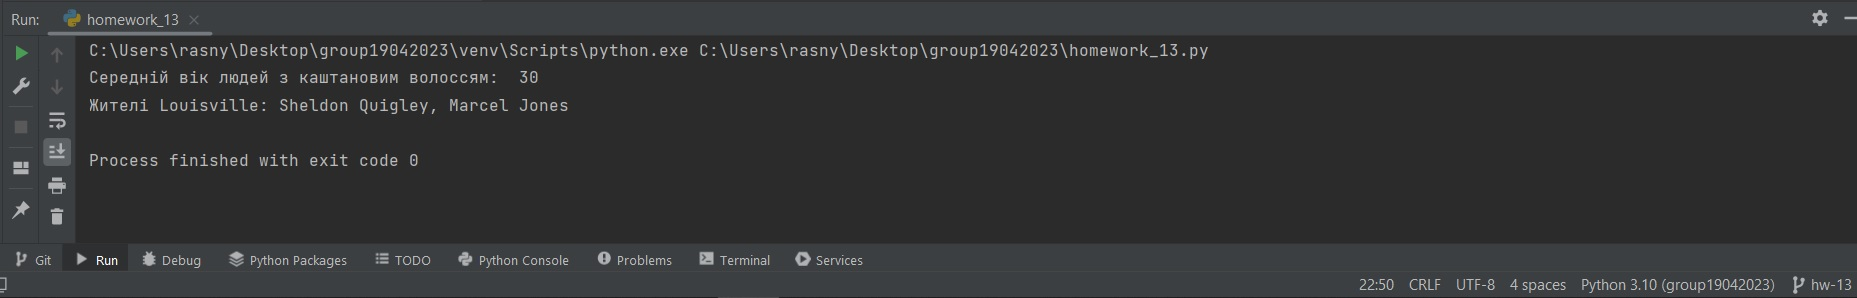
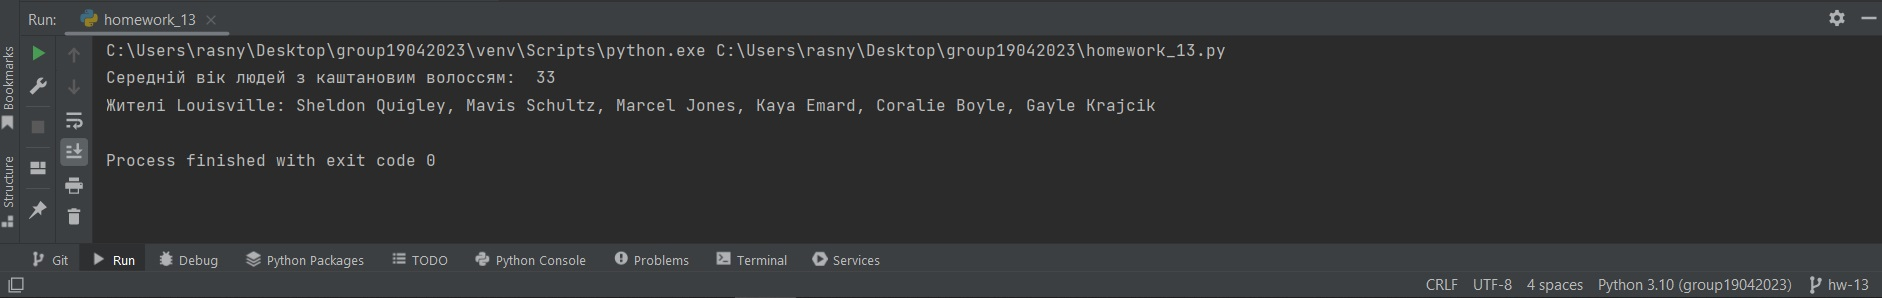
Fixed Homework - 13

diff --git a/homework_13.py b/homework_13.py
@@ -1,29 +1,28 @@
 import requests
 
-url = 'https://dummyjson.com/users'
-
-response = requests.get(url)
-
-dummyjson_data = response.json()
-
-clean_data = dummyjson_data['users']
+url = 'https://dummyjson.com/users/{id}'
 
 brown_hair_set = []
-brown_hair_set_average_age = 0
 louisville_citizens_set = []
 
-for user in clean_data:
-    if user['hair']['color'] == 'Brown':
-        brown_hair_user_age = user['age']
+for page in range(1, 101):
+    response = requests.get(url.format(id=page))
+    dummyjson_data = response.json()
+    if dummyjson_data['hair']['color'] == 'Brown':
+        brown_hair_user_age = dummyjson_data['age']
         brown_hair_set.append(brown_hair_user_age)
-        brown_hair_set_length = len(brown_hair_set)
-        brown_hair_set_sum = sum(brown_hair_set)
-        brown_hair_set_average_age = int(brown_hair_set_sum / brown_hair_set_length)
-    elif user['address']['city'] == 'Louisville':
-        louisville_citizen_first_name = user['firstName']
-        louisville_citizen_last_name = user['lastName']
-        louisville_citizen_full_name = f'{louisville_citizen_first_name} {louisville_citizen_last_name}'
-        louisville_citizens_set.append(louisville_citizen_full_name)
+    try:
+        if dummyjson_data['address']['city'] == 'Louisville':
+            louisville_citizen_first_name = dummyjson_data['firstName']
+            louisville_citizen_last_name = dummyjson_data['lastName']
+            louisville_citizen_full_name = f'{louisville_citizen_first_name} {louisville_citizen_last_name}'
+            louisville_citizens_set.append(louisville_citizen_full_name)
+    except KeyError:
+        pass
+
+brown_hair_set_length = len(brown_hair_set)
+brown_hair_set_sum = sum(brown_hair_set)
+brown_hair_set_average_age = int(brown_hair_set_sum / brown_hair_set_length)
 
 louisville_citizens = ', '.join(map(str, louisville_citizens_set))
 
